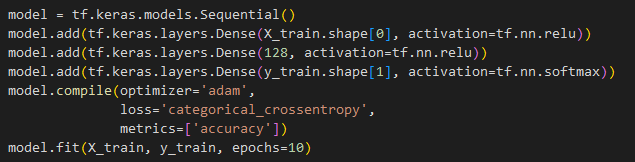
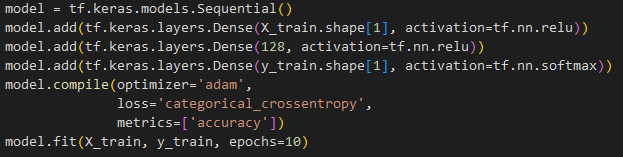
ml post edit2

diff --git a/_posts/2023-08-21-keras.html b/_posts/2023-08-21-keras.html
@@ -104,7 +104,14 @@ background: "/img/posts/Screenshot.png"
 </p>
 <p>
   Jeg omdannede koden fra tutoriallen til at bruge det genererede dataset til
-  lækagepunkter, og trænede en model med dette:
+  lækagepunkter, og trænede en model med dette. Som man kan se, kan man oprette
+  en model og tilføje lag til den, ved hvert lag bliver der defineret hvor mange
+  neuroner dette lag skal have, ved at give en nummer som parameter. Input- og
+  outputlagene i modellen indstilles til at have det korrekte antal neuroner ved
+  at anvende .shape attributten på vores data arrays. For inputlaget bruges
+  X_train.shape[1], som refererer til antallet af features (kolonner) i X_train
+  arrayet. For outputlaget bruges y_train.shape[1], som refererer til antallet
+  af outputklasser eller labels i y_train arrayet:
 </p>
 <img src="/img/posts/tfkerasmodelfit.png" style="max-width: 100%" />
 <img src="/img/posts/keraspredict.png" style="max-width: 100%" />
